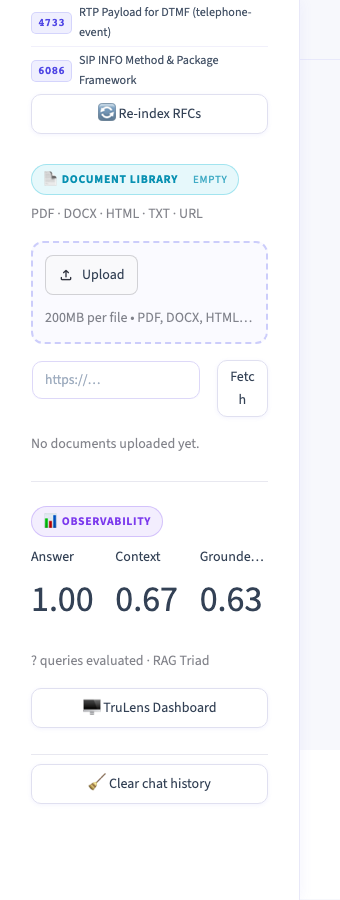
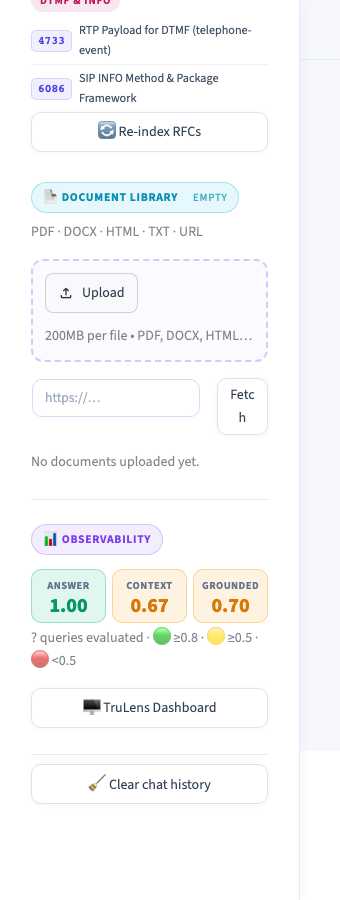
Color-code RAG Triad scores in Observability sidebar
Green (≥0.8), amber (≥0.5), red (<0.5) for Answer, Context, Groundedness.
Updated 03_observability_sidebar.png screenshot.

diff --git a/app.py b/app.py
@@ -1012,15 +1012,38 @@ def _render_sidebar(vs):
             _lb = _tru.get_leaderboard()
             if not _lb.empty:
                 _score_cols = ["Answer Relevance", "Context Relevance", "Groundedness"]
-                _cols = st.columns(3)
-                for _col, _metric in zip(_cols, _score_cols):
+                _labels     = ["Answer", "Context", "Grounded"]
+
+                def _score_color(v):
+                    if v is None:
+                        return "#94a3b8", "rgba(148,163,184,0.12)", "#94a3b8"
+                    if v >= 0.8:
+                        return "#059669", "rgba(16,185,129,0.12)", "rgba(16,185,129,0.35)"
+                    if v >= 0.5:
+                        return "#d97706", "rgba(245,158,11,0.12)", "rgba(245,158,11,0.35)"
+                    return "#dc2626", "rgba(239,68,68,0.12)", "rgba(239,68,68,0.35)"
+
+                chips_html = '<div style="display:flex;gap:6px;flex-wrap:wrap;margin:6px 0 4px;">'
+                for _metric, _label in zip(_score_cols, _labels):
                     _val = _lb[_metric].mean() if _metric in _lb.columns else None
-                    _col.metric(
-                        _metric.split()[0],
-                        f"{_val:.2f}" if _val is not None else "—",
+                    _text, _bg, _border = _score_color(_val)
+                    _display = f"{_val:.2f}" if _val is not None else "—"
+                    chips_html += (
+                        f'<div style="flex:1;min-width:72px;text-align:center;'
+                        f'background:{_bg};border:1px solid {_border};'
+                        f'border-radius:10px;padding:7px 4px 6px;">'
+                        f'<div style="font-size:0.66rem;font-weight:700;color:#64748b;'
+                        f'letter-spacing:0.04em;text-transform:uppercase;margin-bottom:3px;">'
+                        f'{_label}</div>'
+                        f'<div style="font-size:1.25rem;font-weight:800;color:{_text};'
+                        f'line-height:1;">{_display}</div>'
+                        f'</div>'
                     )
+                chips_html += '</div>'
+                st.markdown(chips_html, unsafe_allow_html=True)
+
                 _n = int(_lb["n_records"].sum()) if "n_records" in _lb.columns else "?"
-                st.caption(f"{_n} queries evaluated · RAG Triad")
+                st.caption(f"{_n} queries evaluated · 🟢 ≥0.8 · 🟡 ≥0.5 · 🔴 <0.5")
             else:
                 st.caption("No evaluations yet — ask a question to start.")
         except Exception:
